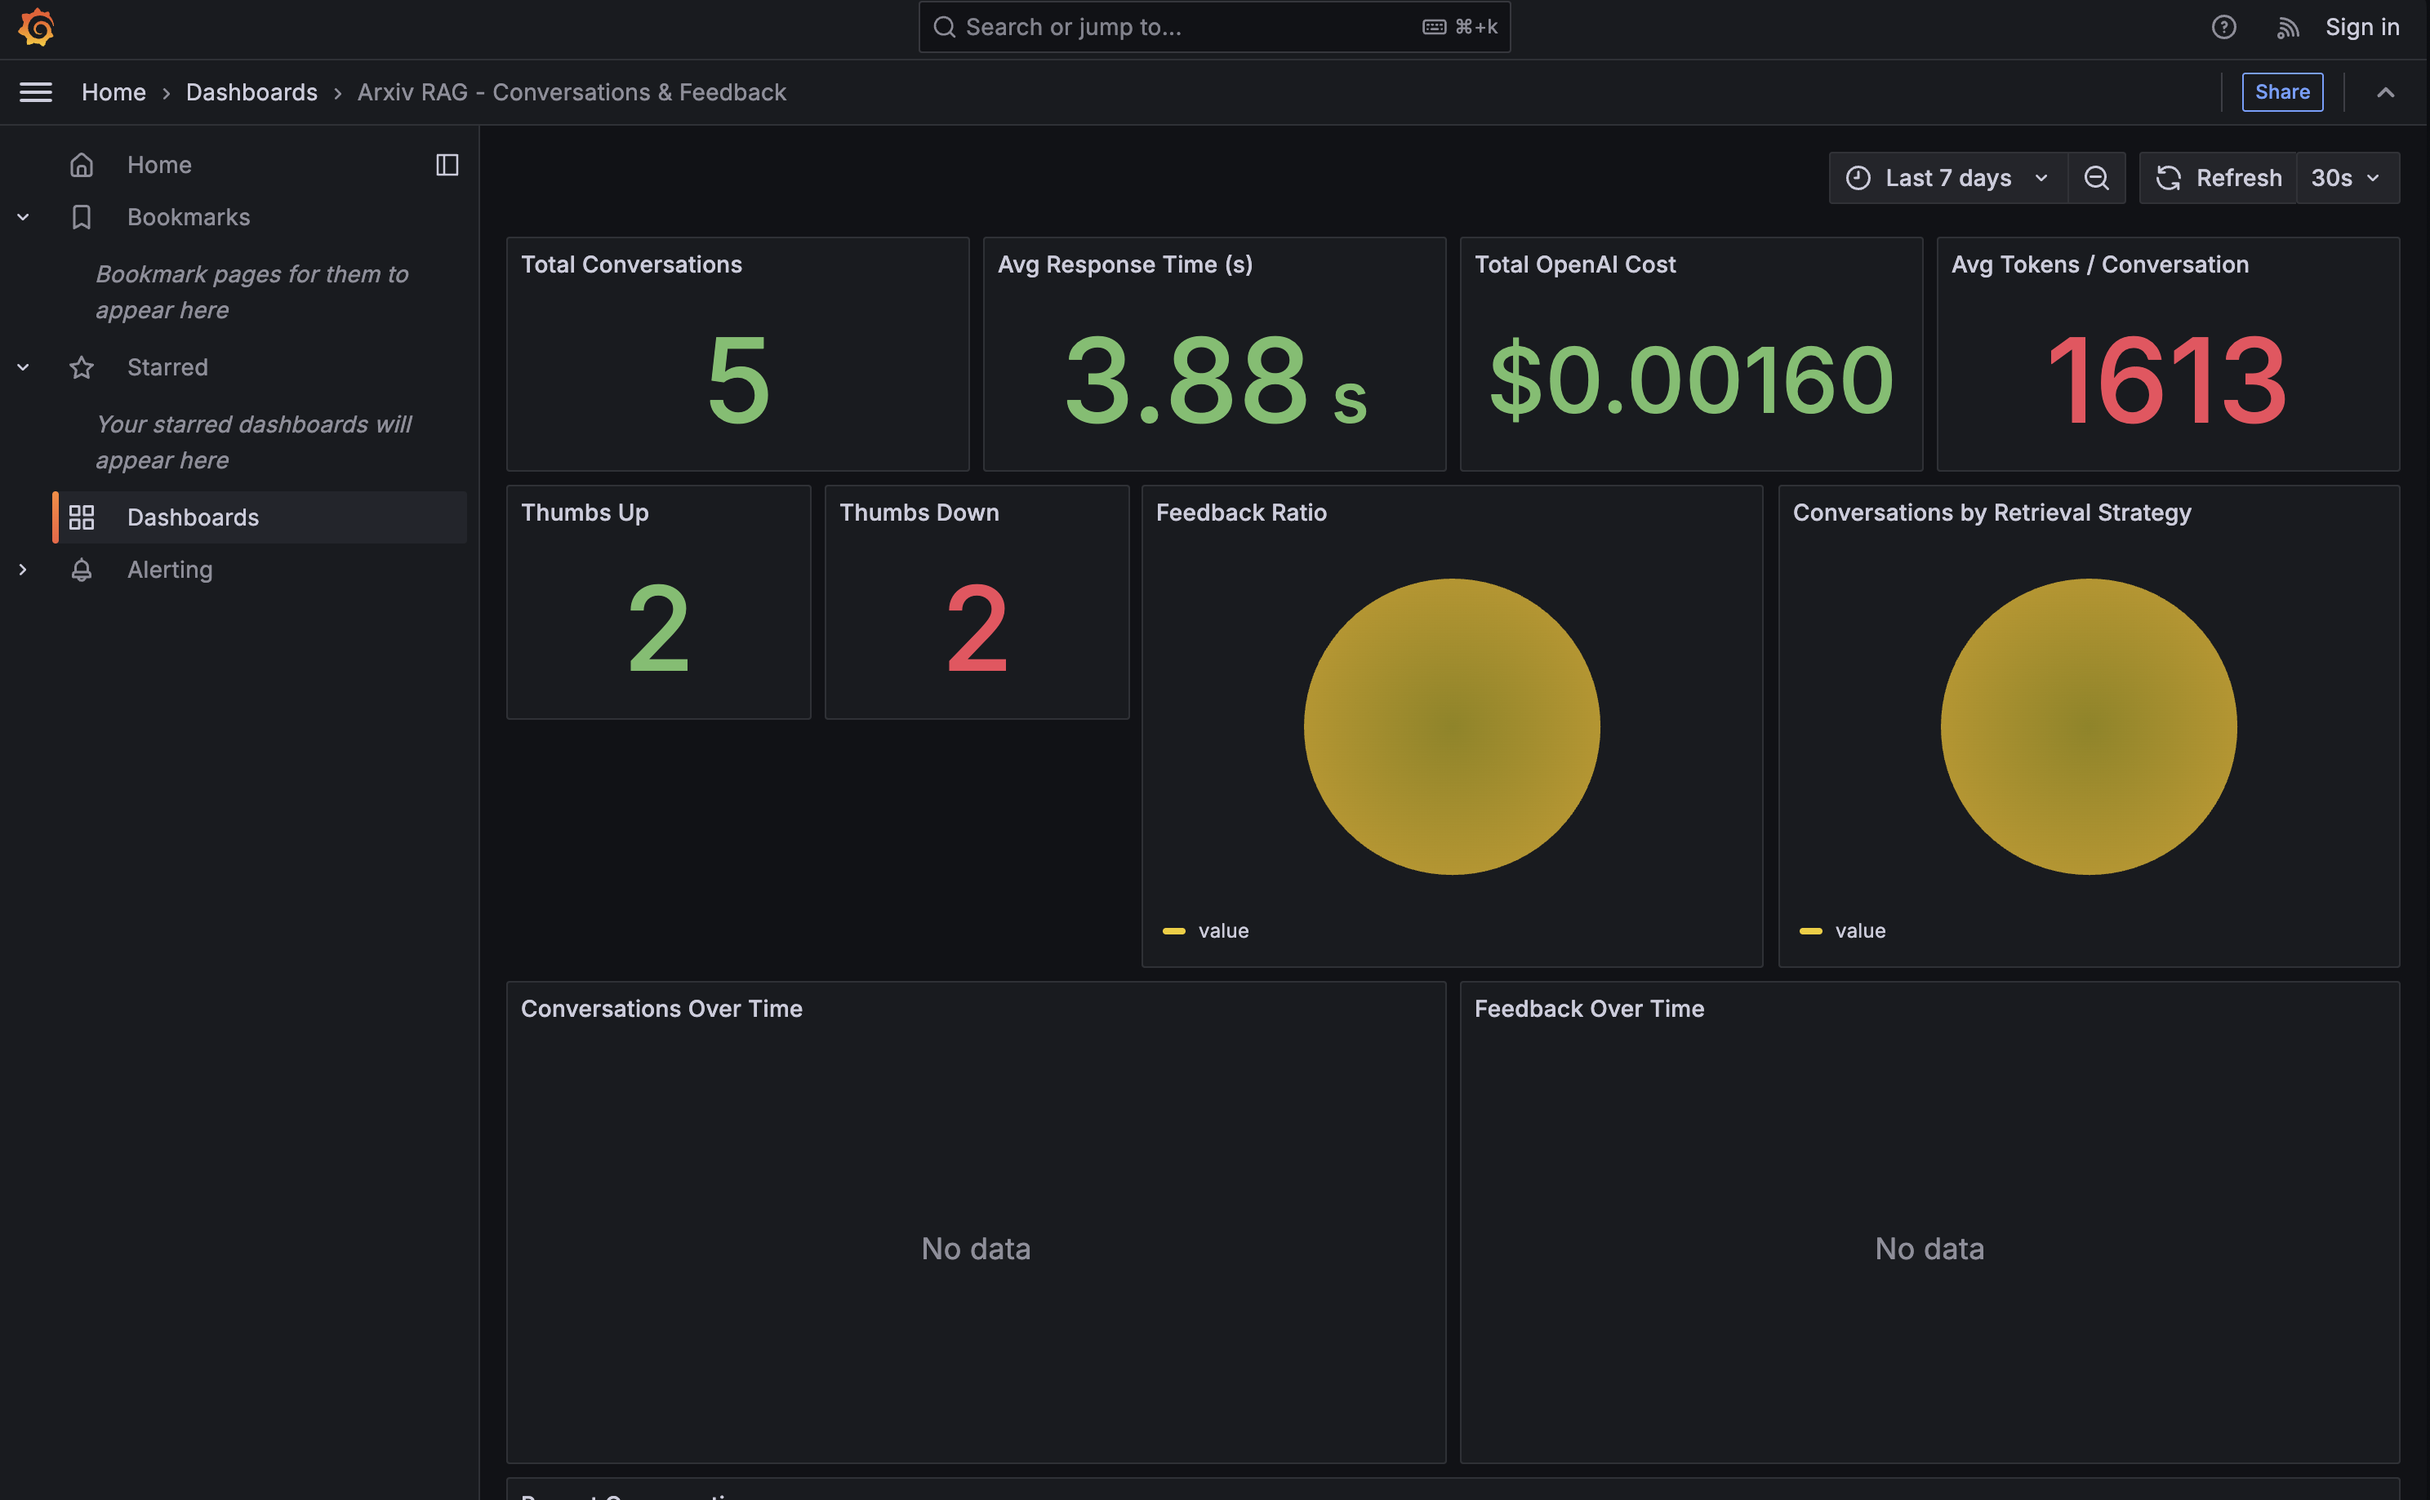
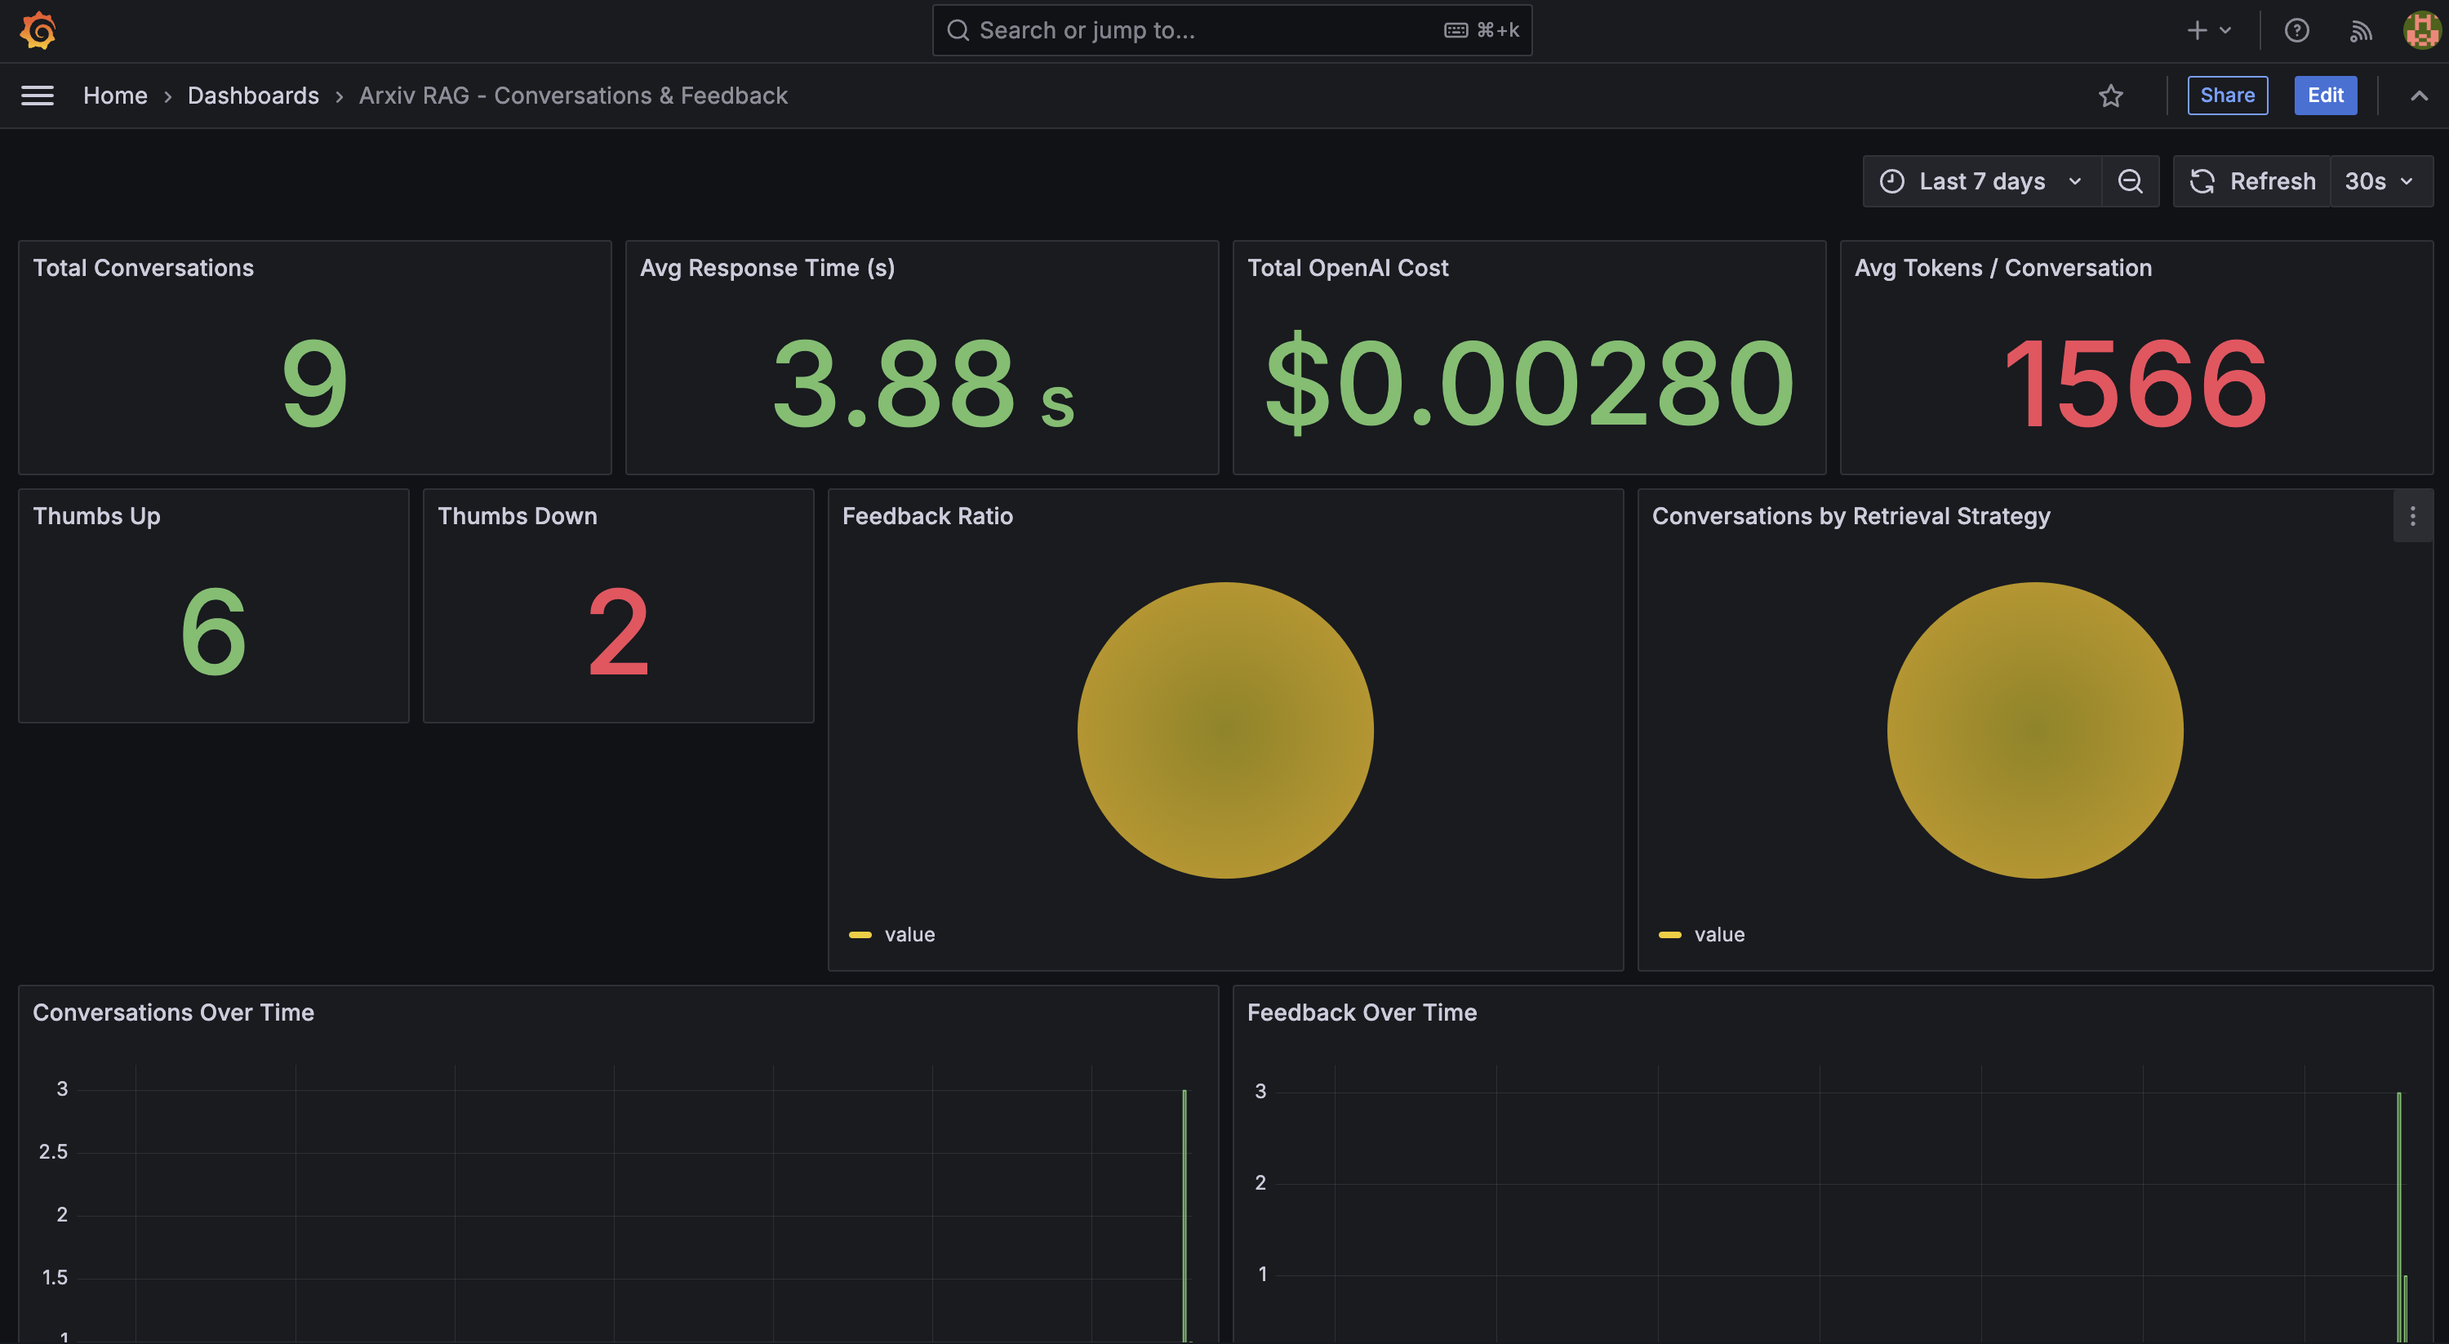
Enhance README and monitoring documentation with new details and images
- Updated the README.md to include a collapsible section for the reviewer map, linking to the DataTalks.Club LLM Zoomcamp.
- Revised monitoring_feedback.md to replace duplicate Grafana dashboard images with a new Grafana conversations image and added Streamlit screenshots for chat and feedback.
- Introduced new images for better visualization in the documentation.

diff --git a/README.md b/README.md
@@ -163,7 +163,10 @@ make eval       # build index + open the marimo evaluation notebook
 | [Monitoring & feedback](docs/monitoring_feedback.md) | Postgres feedback + the 11-panel Grafana dashboard |
 | [Ingestion pipeline](docs/ingestion_pipeline.md) | dlt + DuckDB pipeline and the daily Kestra schedule |
 
-## Evaluation criteria: reviewer map
+## Evaluation criteria
+
+<details>
+<summary>Reviewer map for the project by <a href="https://github.com/DataTalksClub/llm-zoomcamp">DataTalks.Club LLM Zoomcamp</a>.</summary>
 
 | Criterion | How this project addresses it | Where |
 |---|---|---|
@@ -176,3 +179,5 @@ make eval       # build index + open the marimo evaluation notebook
 | **Containerization** | Elasticsearch, Kestra + its Postgres, the app Postgres, the dlt ingestion service, and Grafana all run via one `docker compose up -d` | [`docker-compose.yml`](docker-compose.yml), [`Makefile`](Makefile) |
 | **Reproducibility** | Pinned deps (`uv.lock`), `.env.example` with every variable documented, one-command infra + setup (`make setup`), seeded dataset cache | [Installation](#installation), [.env.example](.env.example) |
 | **Best practices** | Hybrid search (BM25 + dense embeddings), document re-ranking (cross-encoder in `hybrid_rerank`), RRF fusion (`elasticsearch_rrf`) | [`src/arxiv_rag/strategies.py`](src/arxiv_rag/strategies.py), [`src/arxiv_rag/rerank.py`](src/arxiv_rag/rerank.py) |
+
+</details>

diff --git a/docs/monitoring_feedback.md b/docs/monitoring_feedback.md
@@ -70,10 +70,16 @@ export the JSON back).
 <table>
 <tr>
 <td align="center" width="33%"><img src="../docs/screenshots/grafana_dashboard.png" alt="grafana_dashboard" width="500"><br><b>Grafana</b><br><sub>Dashboards</sub></td>
-<td align="center" width="33%"><img src="../docs/screenshots/grafana_dashboard.png" alt="grafana_dashboard" width="500"><br><b>Grafana</b><br><sub>Dashboards</sub></td>
+<td align="center" width="33%"><img src="../docs/screenshots/grafana_conversations.png" alt="grafana_conversation" width="500"><br><b>Grafana</b><br><sub>Conversations</sub></td>
 </tr>
 </table>
-<!-- TODO(screenshot): add docs/screenshots/streamlit_sources.png; chat reply with the cited-sources expander and 👍/👎 buttons -->
+
+<table>
+<tr>
+<td align="center" width="33%"><img src="../docs/screenshots/streamlit.png" alt="streamlit" width="500"><br><b>Streamlit</b><br><sub>Chat</sub></td>
+<td align="center" width="33%"><img src="../docs/screenshots/streamlit_feedback.png" alt="streamlit_feedback" width="500"><br><b>Streamlit</b><br><sub>Feedback</sub></td>
+</tr>
+</table>
 
 ## See also
 
